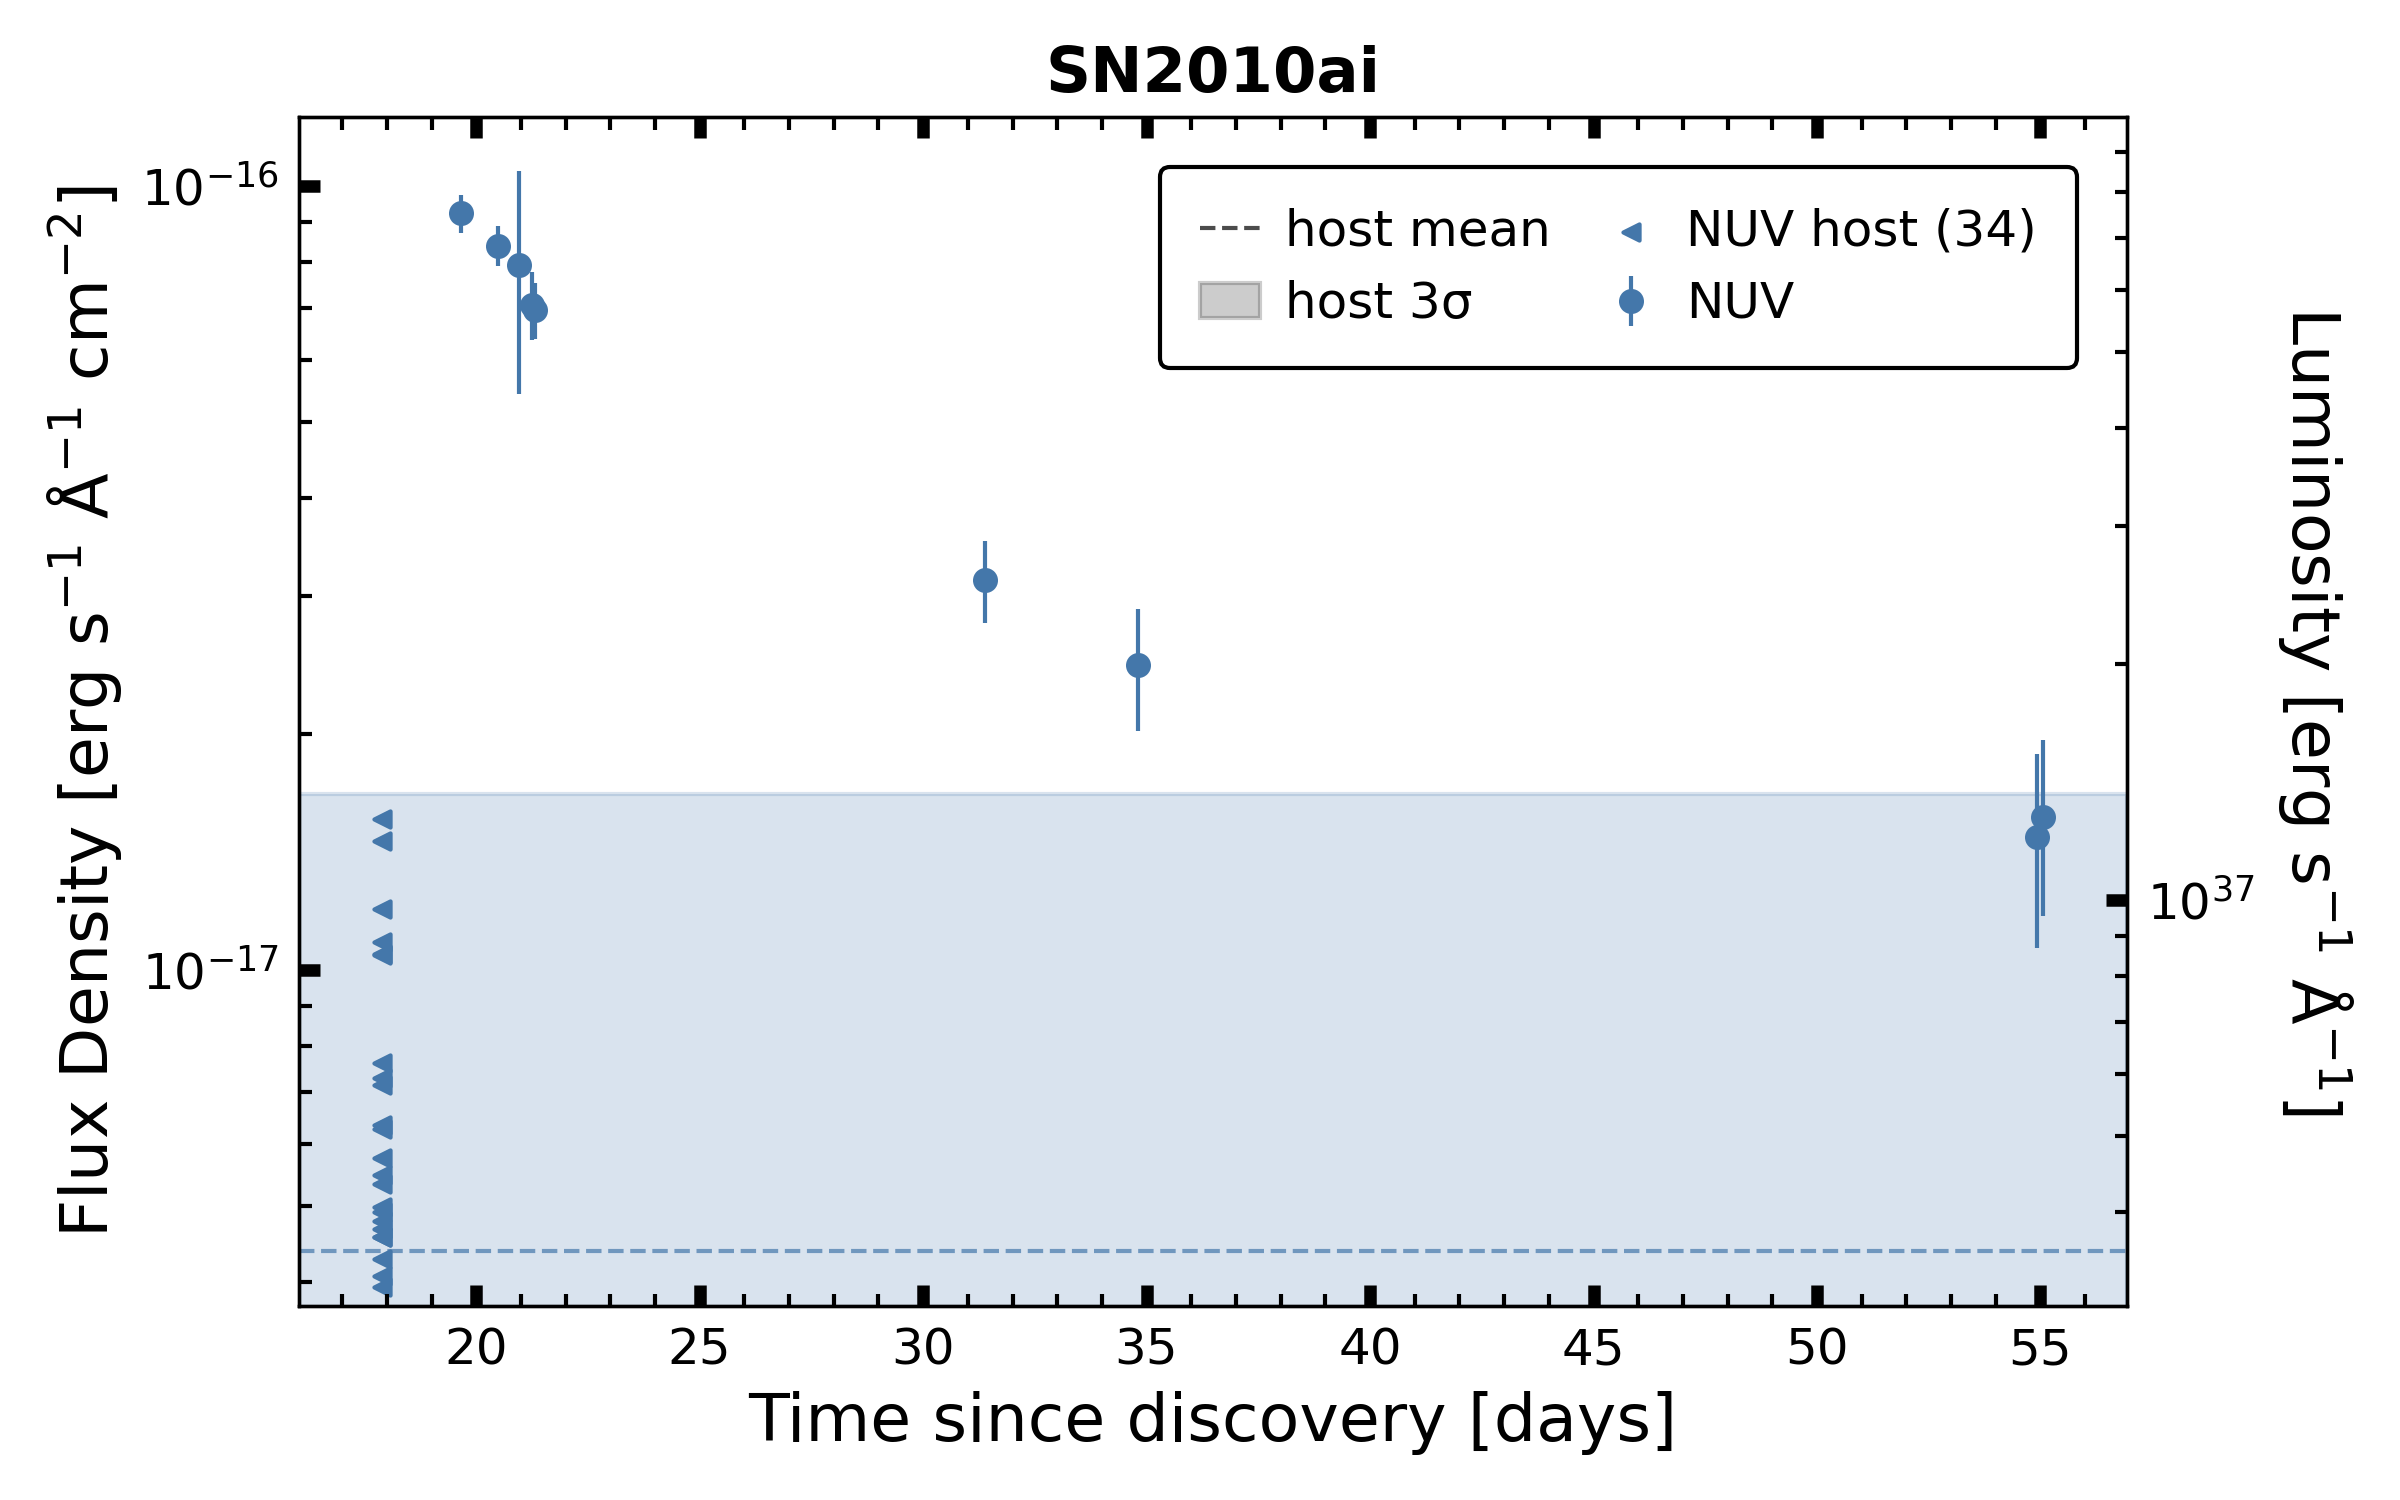
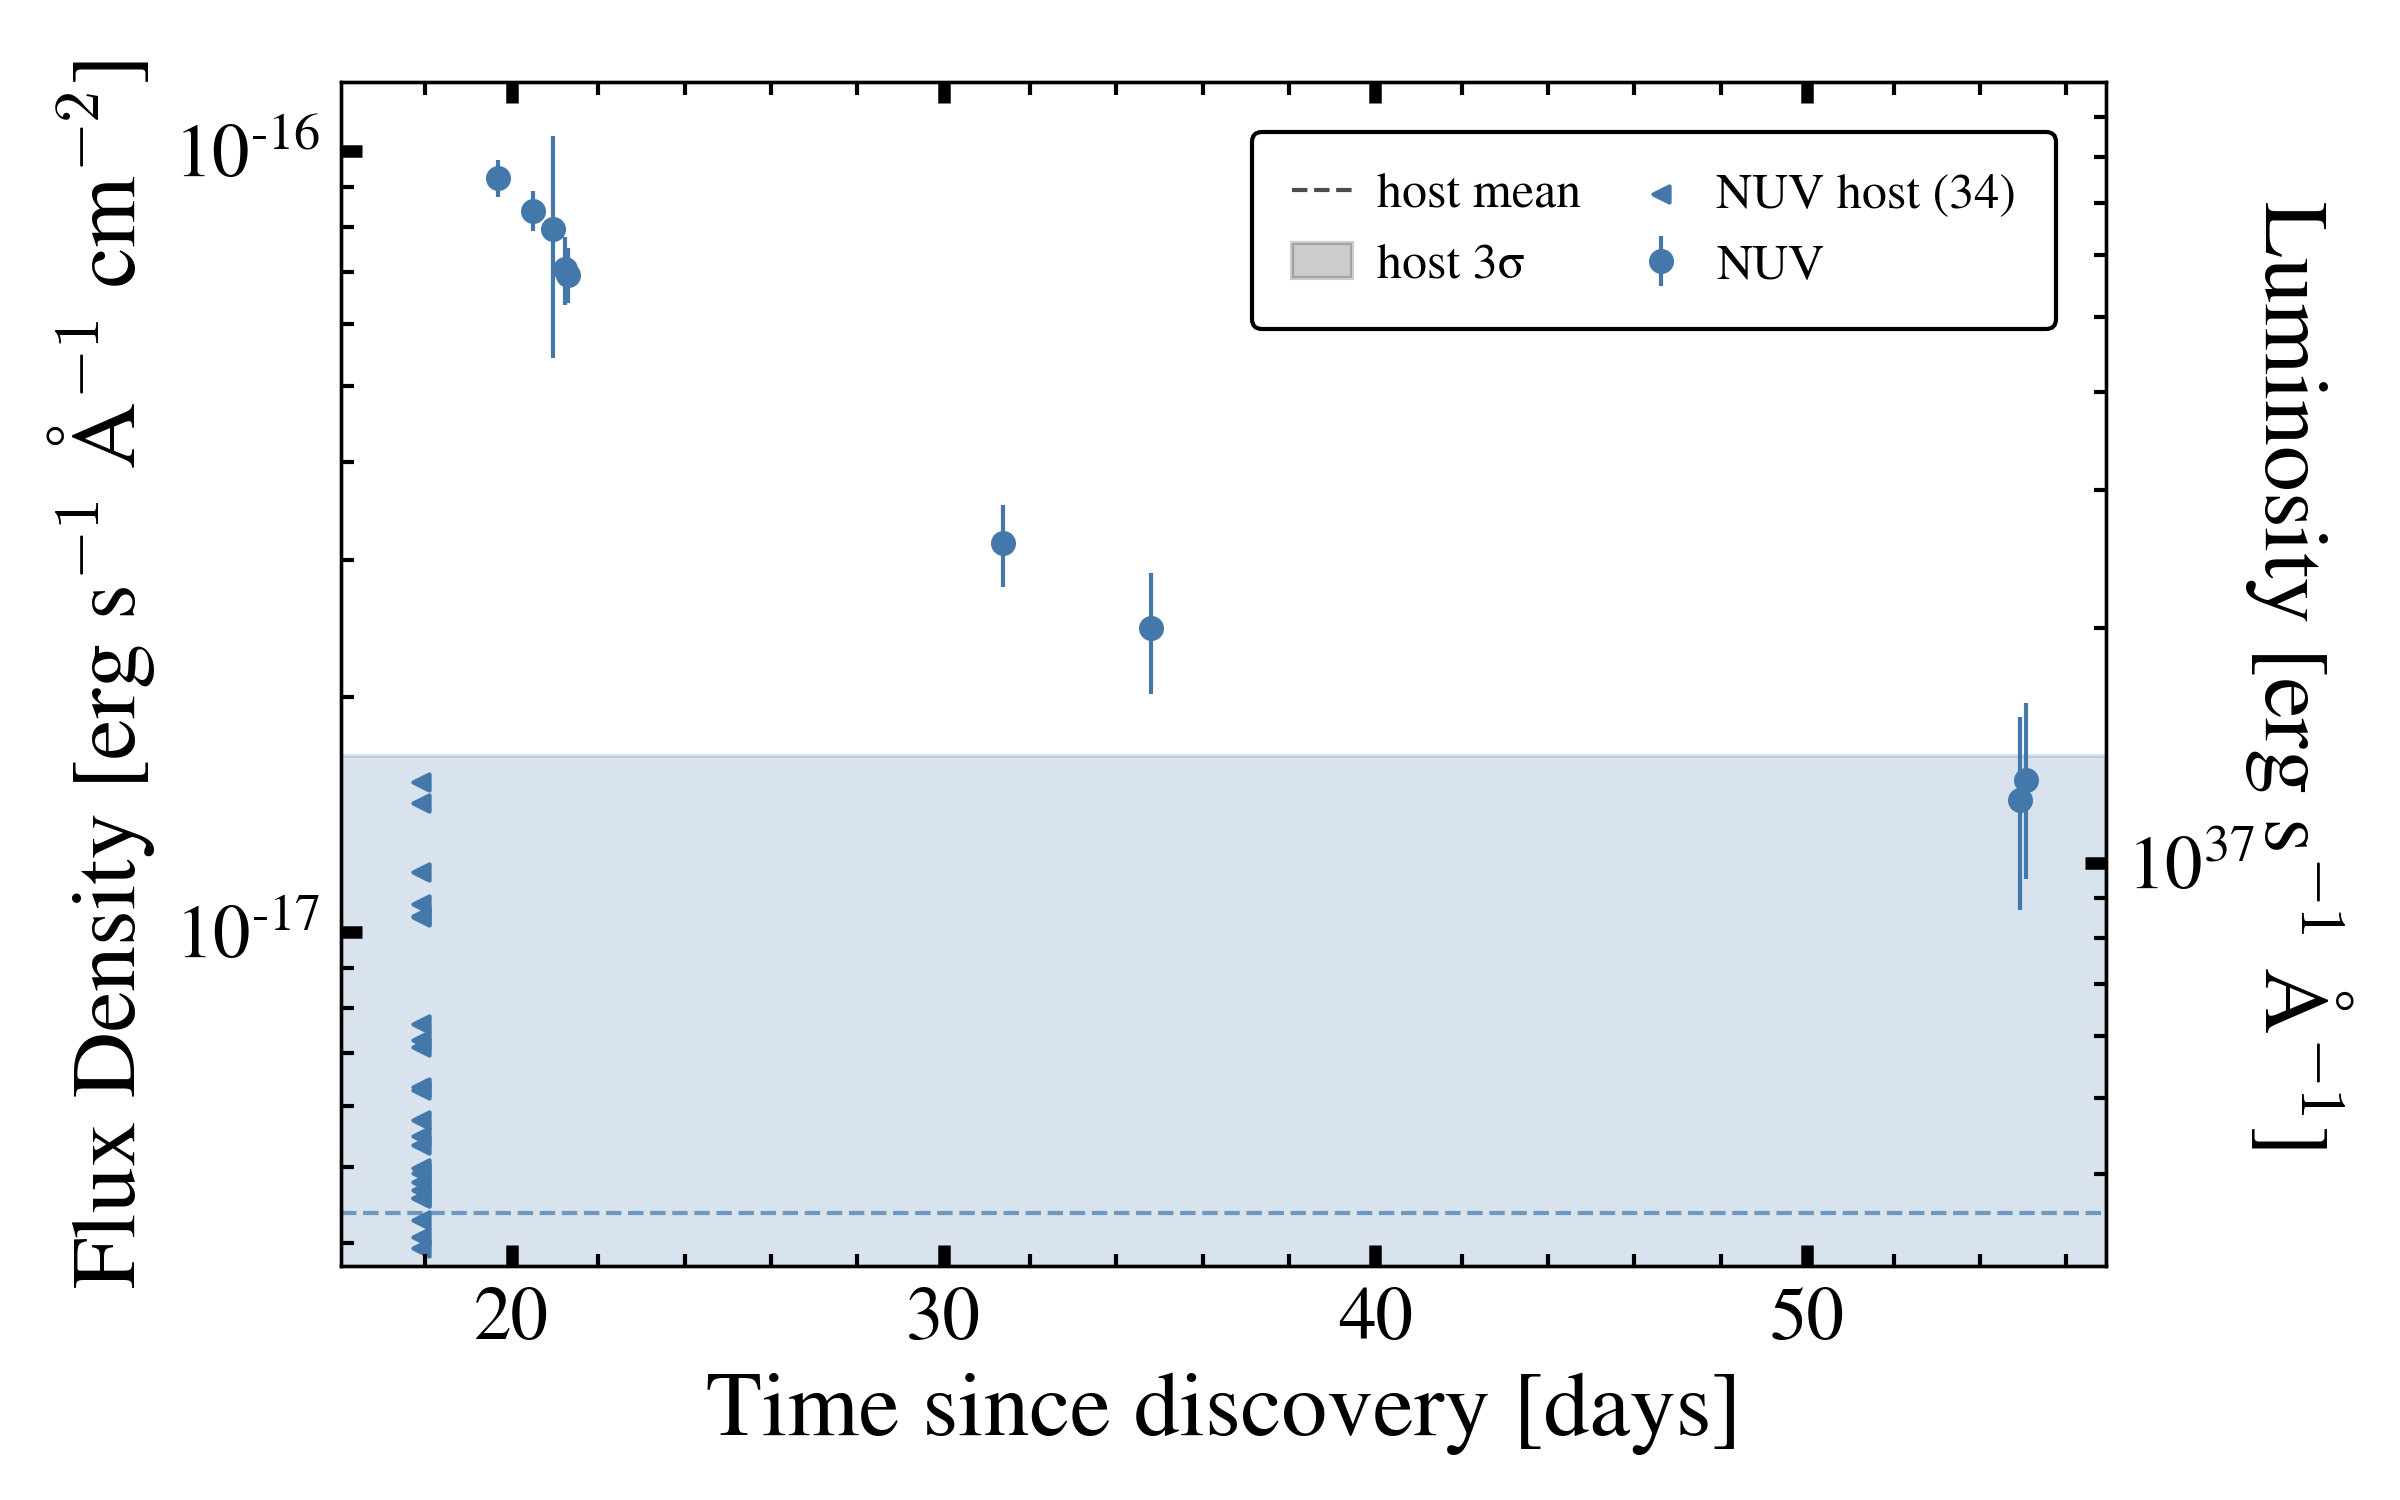
added color analysis; changed plot font

diff --git a/color_analysis.py b/color_analysis.py
@@ -1,0 +1,71 @@
+import matplotlib.pyplot as plt
+from astropy.modeling import models
+from astropy import units as u
+from utils import *
+
+sn = 'SDSS-II SN 19778'
+
+sn_info = pd.read_csv(Path('ref/sn_info.csv'), index_col='name')
+
+NUVdata = full_import(sn, 'NUV', sn_info)[0]
+NUVdata.set_index(NUVdata['t_delta_rest'].round(2), inplace=True)
+FUVdata = full_import(sn, 'FUV', sn_info)[0]
+FUVdata.set_index(FUVdata['t_delta_rest'].round(2), inplace=True)
+
+dt = pd.concat([NUVdata['t_delta_rest'], FUVdata['t_delta']], axis=0).round(2)
+dt = dt.sort_values().drop_duplicates().reset_index(drop=True)
+data = pd.DataFrame([], index=dt)
+data['FUVmag'] = FUVdata['mag_bgsub']
+data['FUVmag_err_1'] = FUVdata['mag_bgsub_err_1']
+data['FUVmag_err_2'] = FUVdata['mag_bgsub_err_2']
+data['NUVmag'] = NUVdata['mag_bgsub']
+data['NUVmag_err_1'] = NUVdata['mag_bgsub_err_1']
+data['NUVmag_err_2'] = NUVdata['mag_bgsub_err_2']
+data['color_mag'] = data['FUVmag'] - data['NUVmag']
+data['color_mag_err_1'] = np.sqrt(data['FUVmag_err_1']**2 + data['NUVmag_err_1']**2)
+data['color_mag_err_2'] = np.sqrt(data['FUVmag_err_2']**2 + data['NUVmag_err_2']**2)
+data['FUVlum'] = FUVdata['luminosity_hostsub']
+data['FUVlum_err'] = FUVdata['luminosity_hostsub_err']
+data['NUVlum'] = NUVdata['luminosity_hostsub']
+data['NUVlum_err'] = NUVdata['luminosity_hostsub_err']
+data['color_lum'] = data['FUVlum'] - data['NUVlum']
+data['color_lum_err'] = np.sqrt(data['FUVlum_err']**2 + data['NUVlum_err']**2)
+data['color_ratio'] = data['FUVlum'] / data['NUVlum']
+data['color_ratio_err'] = data['color_ratio'] * np.sqrt((data['FUVlum_err']/data['FUVlum'])**2 + (data['NUVlum_err']/data['NUVlum'])**2)
+# print(data)
+
+ratio = data[pd.notna(data['color_ratio'])]['color_ratio']
+ratio_err = data[pd.notna(data['color_ratio'])]['color_ratio_err']
+weighted_stats = DescrStatsW(ratio, weights=1/ratio_err**2, ddof=0)
+mean_ratio = weighted_stats.mean
+mean_ratio_err = weighted_stats.std
+print(mean_ratio)
+print(mean_ratio_err)
+
+fig, ax = plt.subplots()
+data = data[data.index > 0]
+ax.errorbar(data.index, data['color_mag'], yerr=[data['color_mag_err_2'], data['color_mag_err_1']], linestyle='none', marker='o')
+# ax.errorbar(data.index, data['color_lum'], yerr=data['color_lum_err'], linestyle='none', marker='o')
+ax.set_xlabel('Rest frame time since discovery [days]')
+ax.set_ylabel('FUV - NUV color [mag]')
+# ax.set_ylabel('FUV - NUV luminosity [erg s$^{-1}$ Å$^{-1}$]')
+ylim = ax.get_ylim()
+ax.set_ylim((ylim[1], ylim[0]))
+# plt.show()
+plt.close()
+
+# Estimate temperature
+r = 0
+temp = 20000 # K
+lambda_eff = {'FUV': 1549, 'NUV': 2304.7}
+while r < mean_ratio - mean_ratio_err:
+    temp += 100
+    bb = models.BlackBody(temperature=temp*u.K)
+    FUV = bb(lambda_eff['FUV'] * u.AA)
+    NUV = bb(lambda_eff['NUV'] * u.AA)
+    r = FUV / NUV
+
+print(temp)
+print(r)
+print(FUV)
+print(NUV)

diff --git a/fancy_plot.py b/fancy_plot.py
@@ -33,6 +33,7 @@ def main():
             help='extra padding for legend at the top-right')
     parser.add_argument('-r', '--restframe', action='store_true',
             help='plot rest frame time, corrected for z')
+    parser.add_argument('--notitle', action='store_true', help='omit axis title')
     args = parser.parse_args()
 
     sn_info = pd.read_csv(args.info, index_col='name')
@@ -110,7 +111,7 @@ def plot(sn, sn_info, args):
 
         # Plot fluxes
         if args.restframe:
-            dt = after['t_delta_destretch']
+            dt = after['t_delta_rest']
             xlabel = 'Rest frame time since discovery [days]'
         else:
             dt = after['t_delta']
@@ -143,7 +144,8 @@ def plot(sn, sn_info, args):
         ax.ticklabel_format(useOffset=False)
         ylim_flux = np.array(ax.get_ylim()) * 10**flux_exp
     ax.set_ylabel('Flux Density [%serg s$^{-1}$ Å$^{-1}$ cm$^{-2}$]' % flux_exp_text)
-    ax.set_title(sn)
+    if not args.notitle:
+        ax.set_title(sn)
     if args.pad:
         xlim = np.array(ax.get_xlim())
         xlim[1] += 0.2 * (xlim[1] - xlim[0])
@@ -189,7 +191,7 @@ def plot_swift(ax, sn, sn_info, yscale, args):
     for band in bands:
         data = lc[lc['band'] == band]
         if args.restframe:
-            dt = data['t_delta_destretch']
+            dt = data['t_delta_rest']
         else:
             dt = data['t_delta']
         ax.errorbar(data['t_delta'], data['flux'] * yscale, linestyle='none',

diff --git a/utils.py b/utils.py
@@ -261,6 +261,9 @@ def full_import(sn, band, sn_info):
     disc_date = Time(sn_info.loc[sn, 'disc_date'], format='iso')
     lc['t_delta'] = lc['t_mean_mjd'] - disc_date.mjd
 
+    # Correct epoch for stretch factor
+    lc['t_delta_rest'] = 1 / (1 + sn_info.loc[sn, 'z']) * lc['t_delta']
+
     # Get background & systematic error
     bg, bg_err, sys_err = get_background(lc, band)
     # Add systematic error
@@ -282,9 +285,6 @@ def full_import(sn, band, sn_info):
             lc['mag_bgsub'], lc['mag_bgsub_err_1'], dist, dist_err)
     lc['absolute_mag_err_2'] = absolute_mag_err(
             lc['mag_bgsub'], lc['mag_bgsub_err_2'], dist, dist_err)[1]
-
-    # Correct epoch for stretch factor
-    lc['t_delta_destretch'] = 1 / (1 + sn_info.loc[sn, 'z']) * lc['t_delta']
 
     return lc, bg, bg_err, sys_err
 
@@ -532,7 +532,7 @@ def import_swift_lc(sn, sn_info):
             lc['flux'], lc['flux_err'], dist, dist_err)
 
     # Correct epoch for stretch factor
-    lc['t_delta_destretch'] = 1 / (1 + sn_info.loc[sn, 'z']) * lc['t_delta']
+    lc['t_delta_rest'] = 1 / (1 + sn_info.loc[sn, 'z']) * lc['t_delta']
 
     return lc
 
